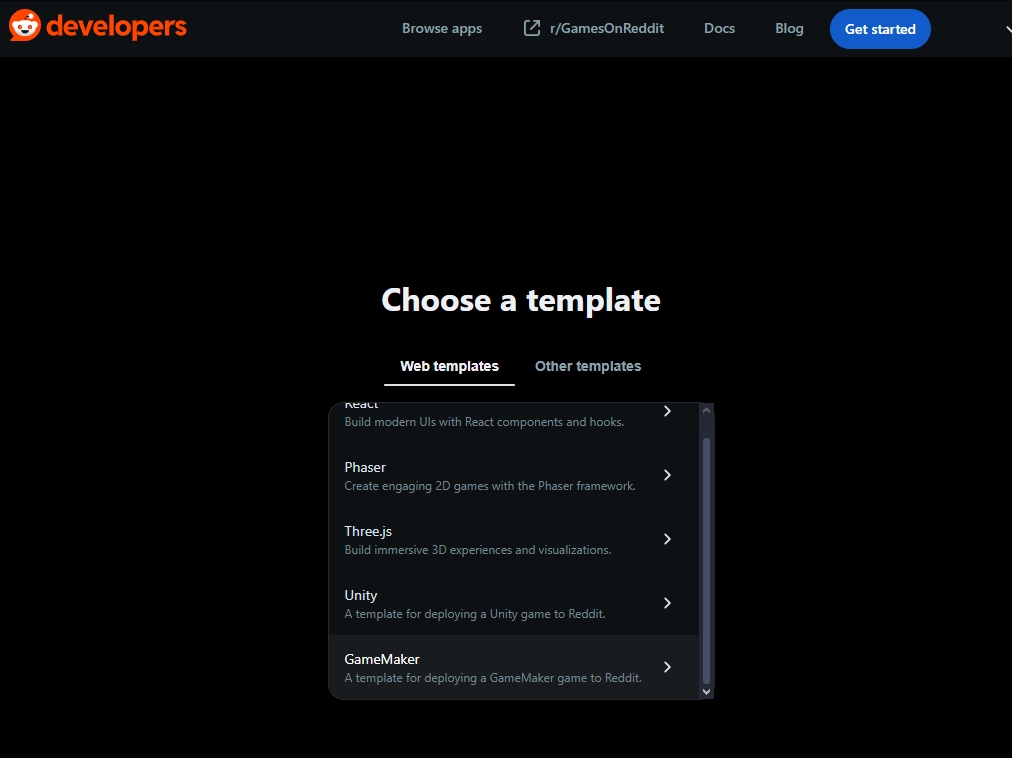
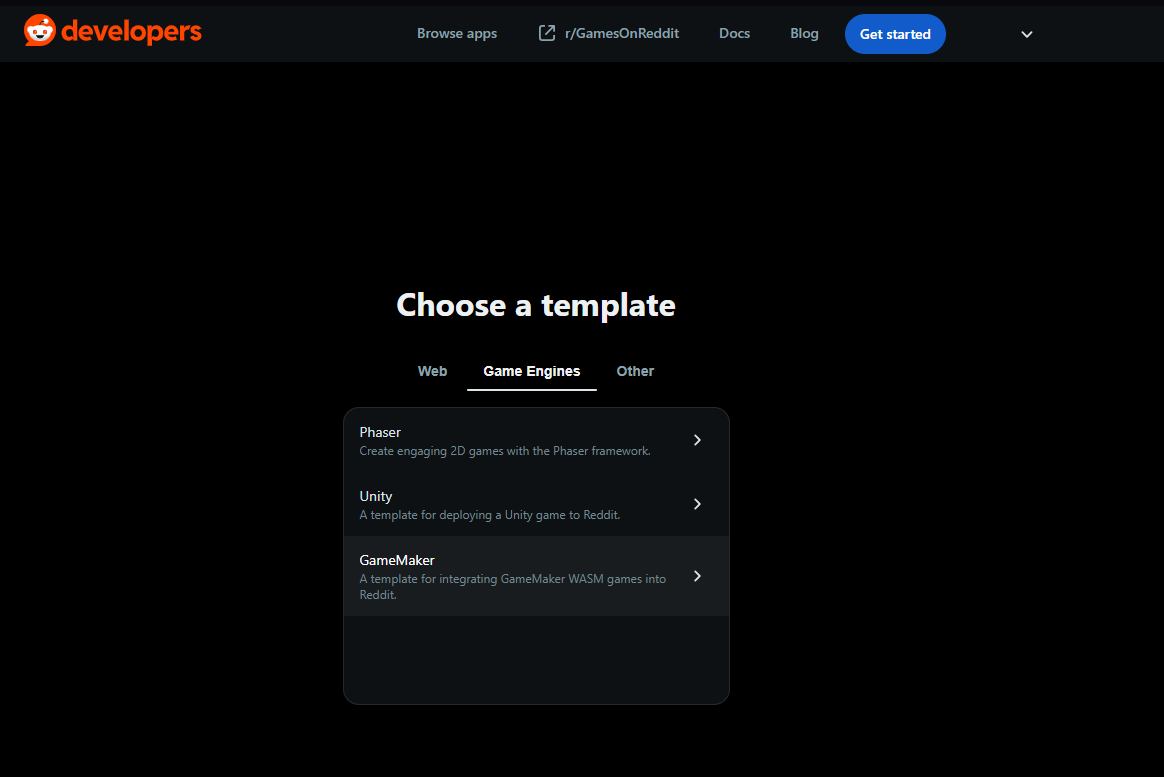
Updated documentation and removed redundant steps in scripts (#2)

diff --git a/docs/HowToBuild.md b/docs/HowToBuild.md
@@ -19,6 +19,7 @@ Before you begin, ensure you have the following installed and configured:
 
 - **Node.js 22+** - Download from [nodejs.org](https://nodejs.org/)
 - **GameMaker** - Any recent 2024.1400.3 Beta release (or newer), which you can download from [the release notes site](https://releases.gamemaker.io/) and must have also configured already for GX.games YYC development by following [its setup guide](https://github.com/YoYoGames/GameMaker-Bugs/wiki#platform-setup-guides)
+    - You may use older versions of GameMaker but will need to use the [GMEXT-Reddit Extension](https://github.com/YoYoGames/GMEXT-Reddit/) which includes the example project and requires you to build your game with the gx.games target rather than the reddit target. Further details can be found in the extension repository.
 - **Reddit Developer Account** - Sign up at [developers.reddit.com](https://developers.reddit.com/)
 
 ---
@@ -162,6 +163,9 @@ When you're ready to test your changes:
 1. Click the **Run** button in GameMaker (or press F5)
 
 ![Screenshot: GameMaker Run button highlighted](_screenshots/gamemaker-run-button.png)
+
+> [!IMPORTANT]
+> If not running on Windows, ensure that execute permissions are enabled on the `setup-gamemaker-devvit.sh` script within your devvit project
 
 GameMaker will:
 - Build your game to WebAssembly
@@ -308,6 +312,13 @@ export type SaveScoreRequest = {
 - Run `node --version` to check your version
 - Update Node.js if necessary: [Download latest version](https://nodejs.org/)
 
+### setup-gamemaker-devvit.sh Permissions Issue
+
+**Solution**
+- Ensure that execute permissions are enabled on the `setup-gamemaker-devvit.sh` script
+    - Run `ls -l setup-gamemaker-devvit.sh` to verify permissions
+- Run `chmod +x setup-gamemaker-devvit.sh` to grant execute permissions
+
 ---
 
 ## Additional Resources
@@ -319,6 +330,7 @@ export type SaveScoreRequest = {
 - [GameMaker Manual](https://manual.gamemaker.io/)
 - [GameMaker Reddit Template Repository](https://github.com/YoYoGames/GameMakerRedditTemplate)
 - [GameMaker Reddit Demo Project](https://github.com/YoYoGames/GM-RedditDemo)
+- [GameMaker Reddit Extension - For older versions of GameMaker](https://github.com/YoYoGames/GMEXT-Reddit)
 
 ---
 
